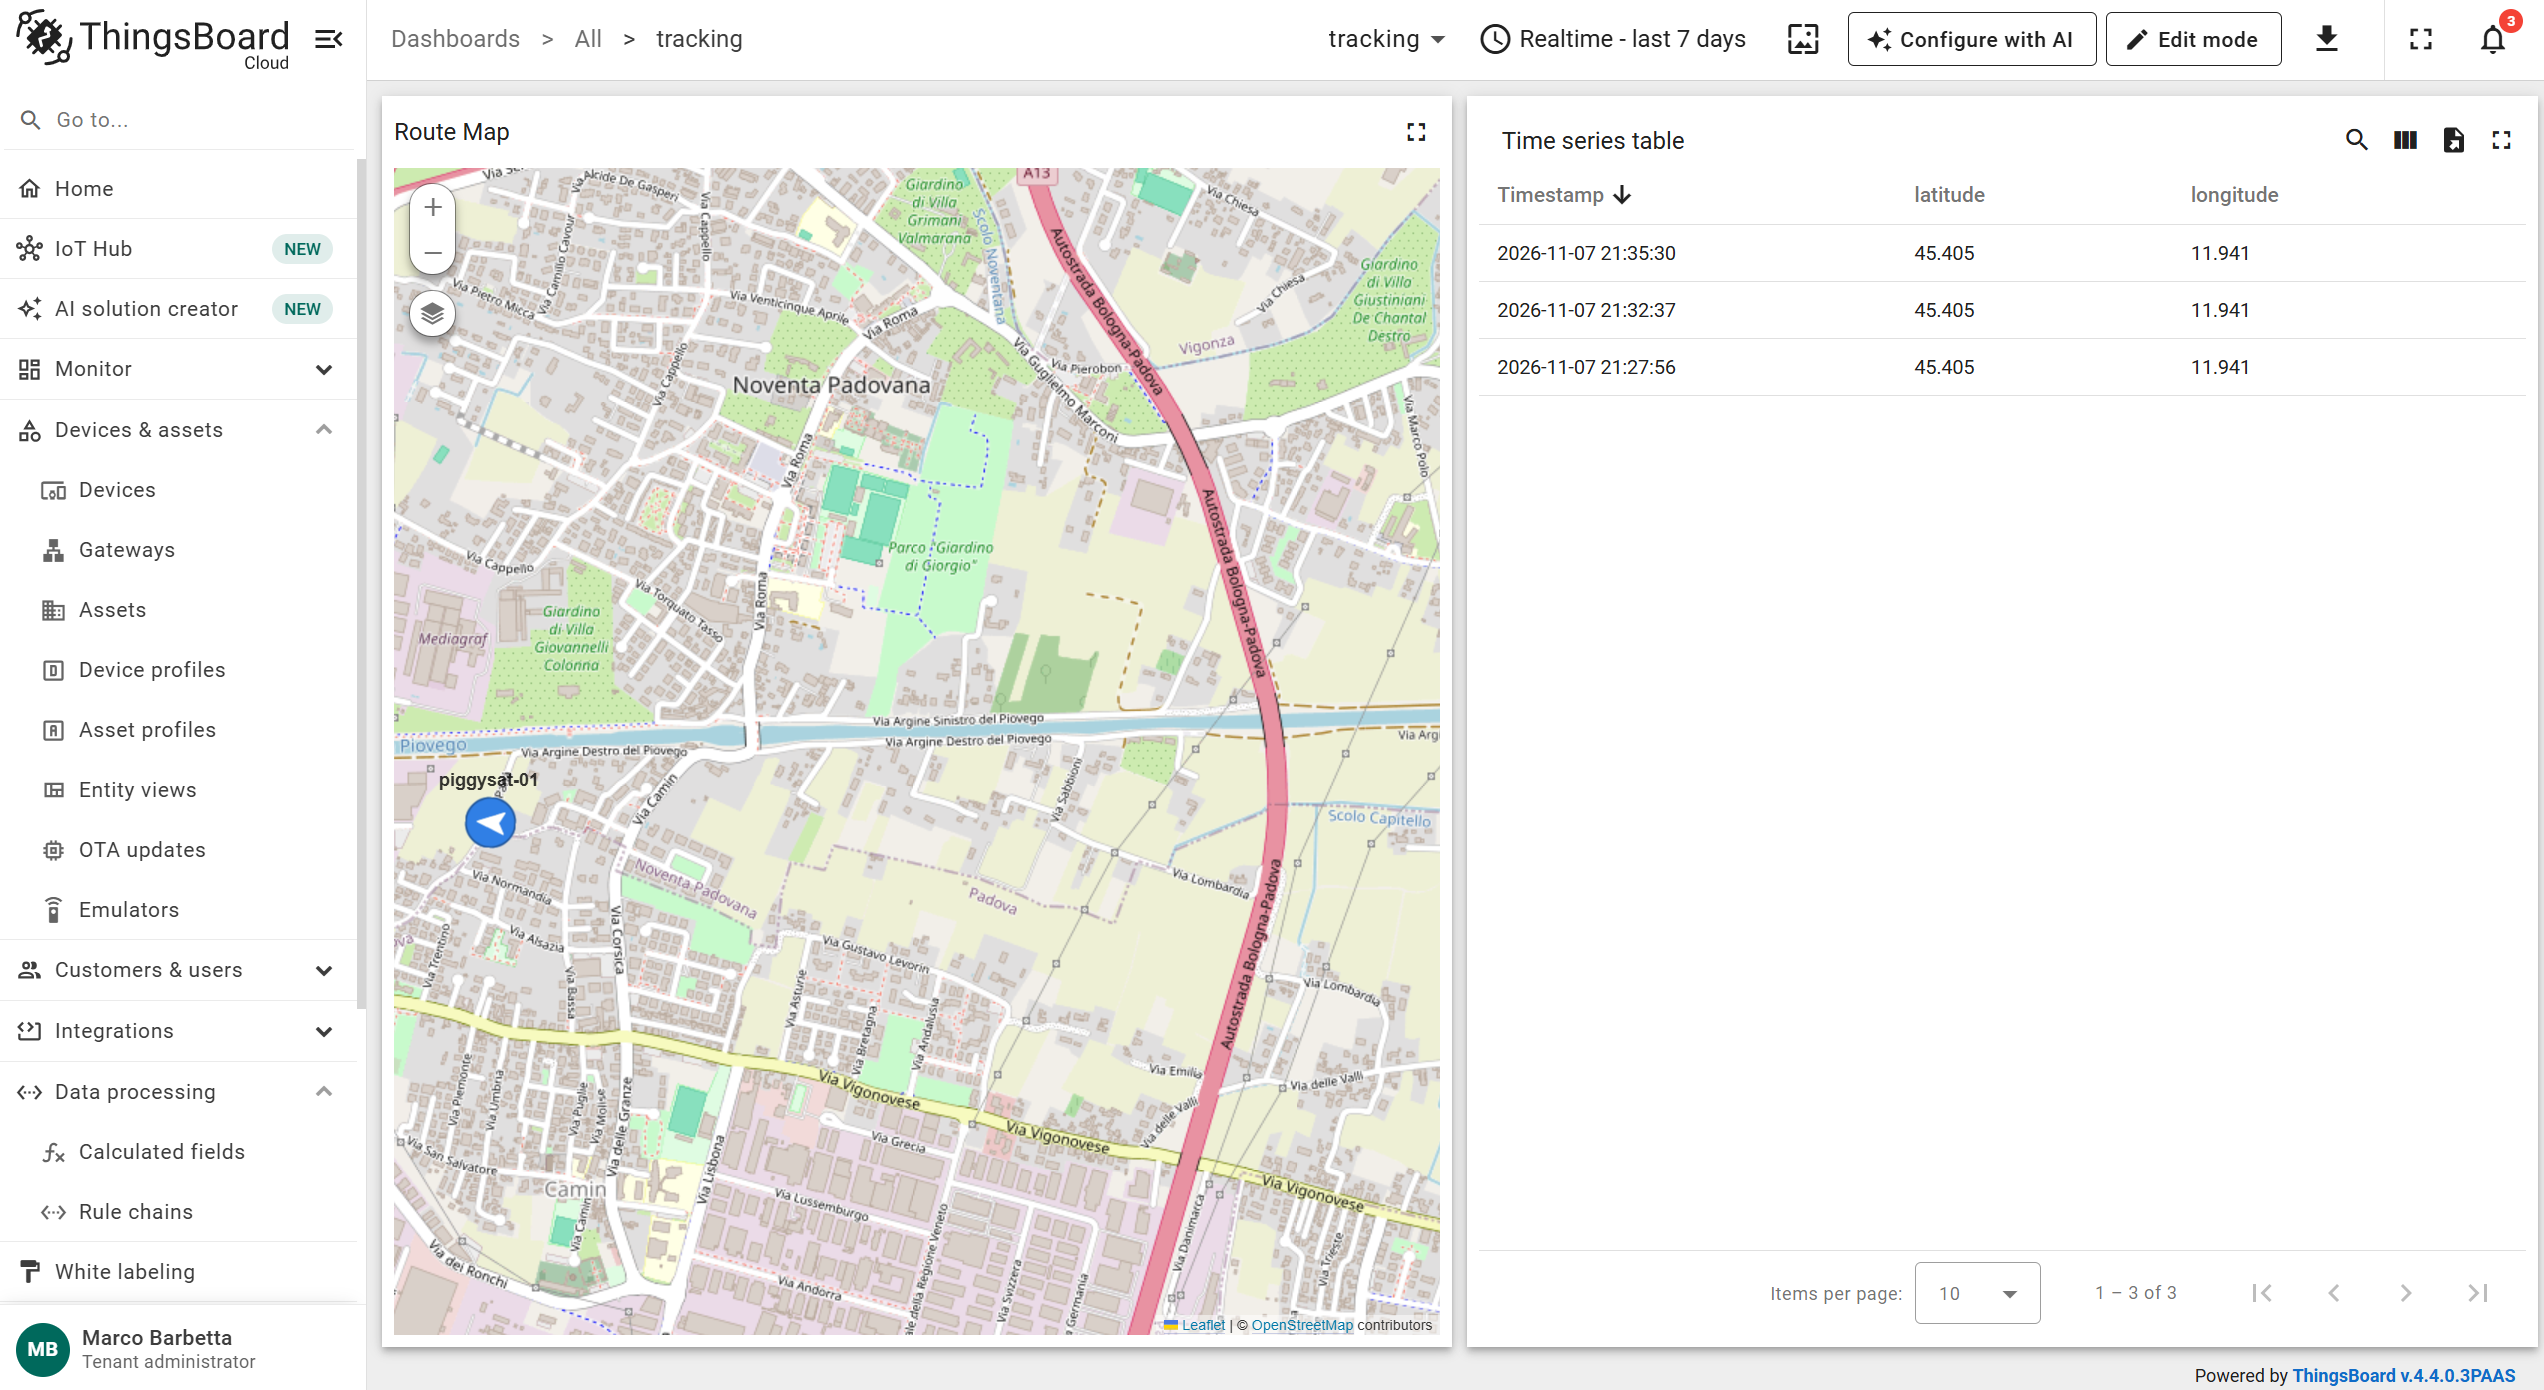
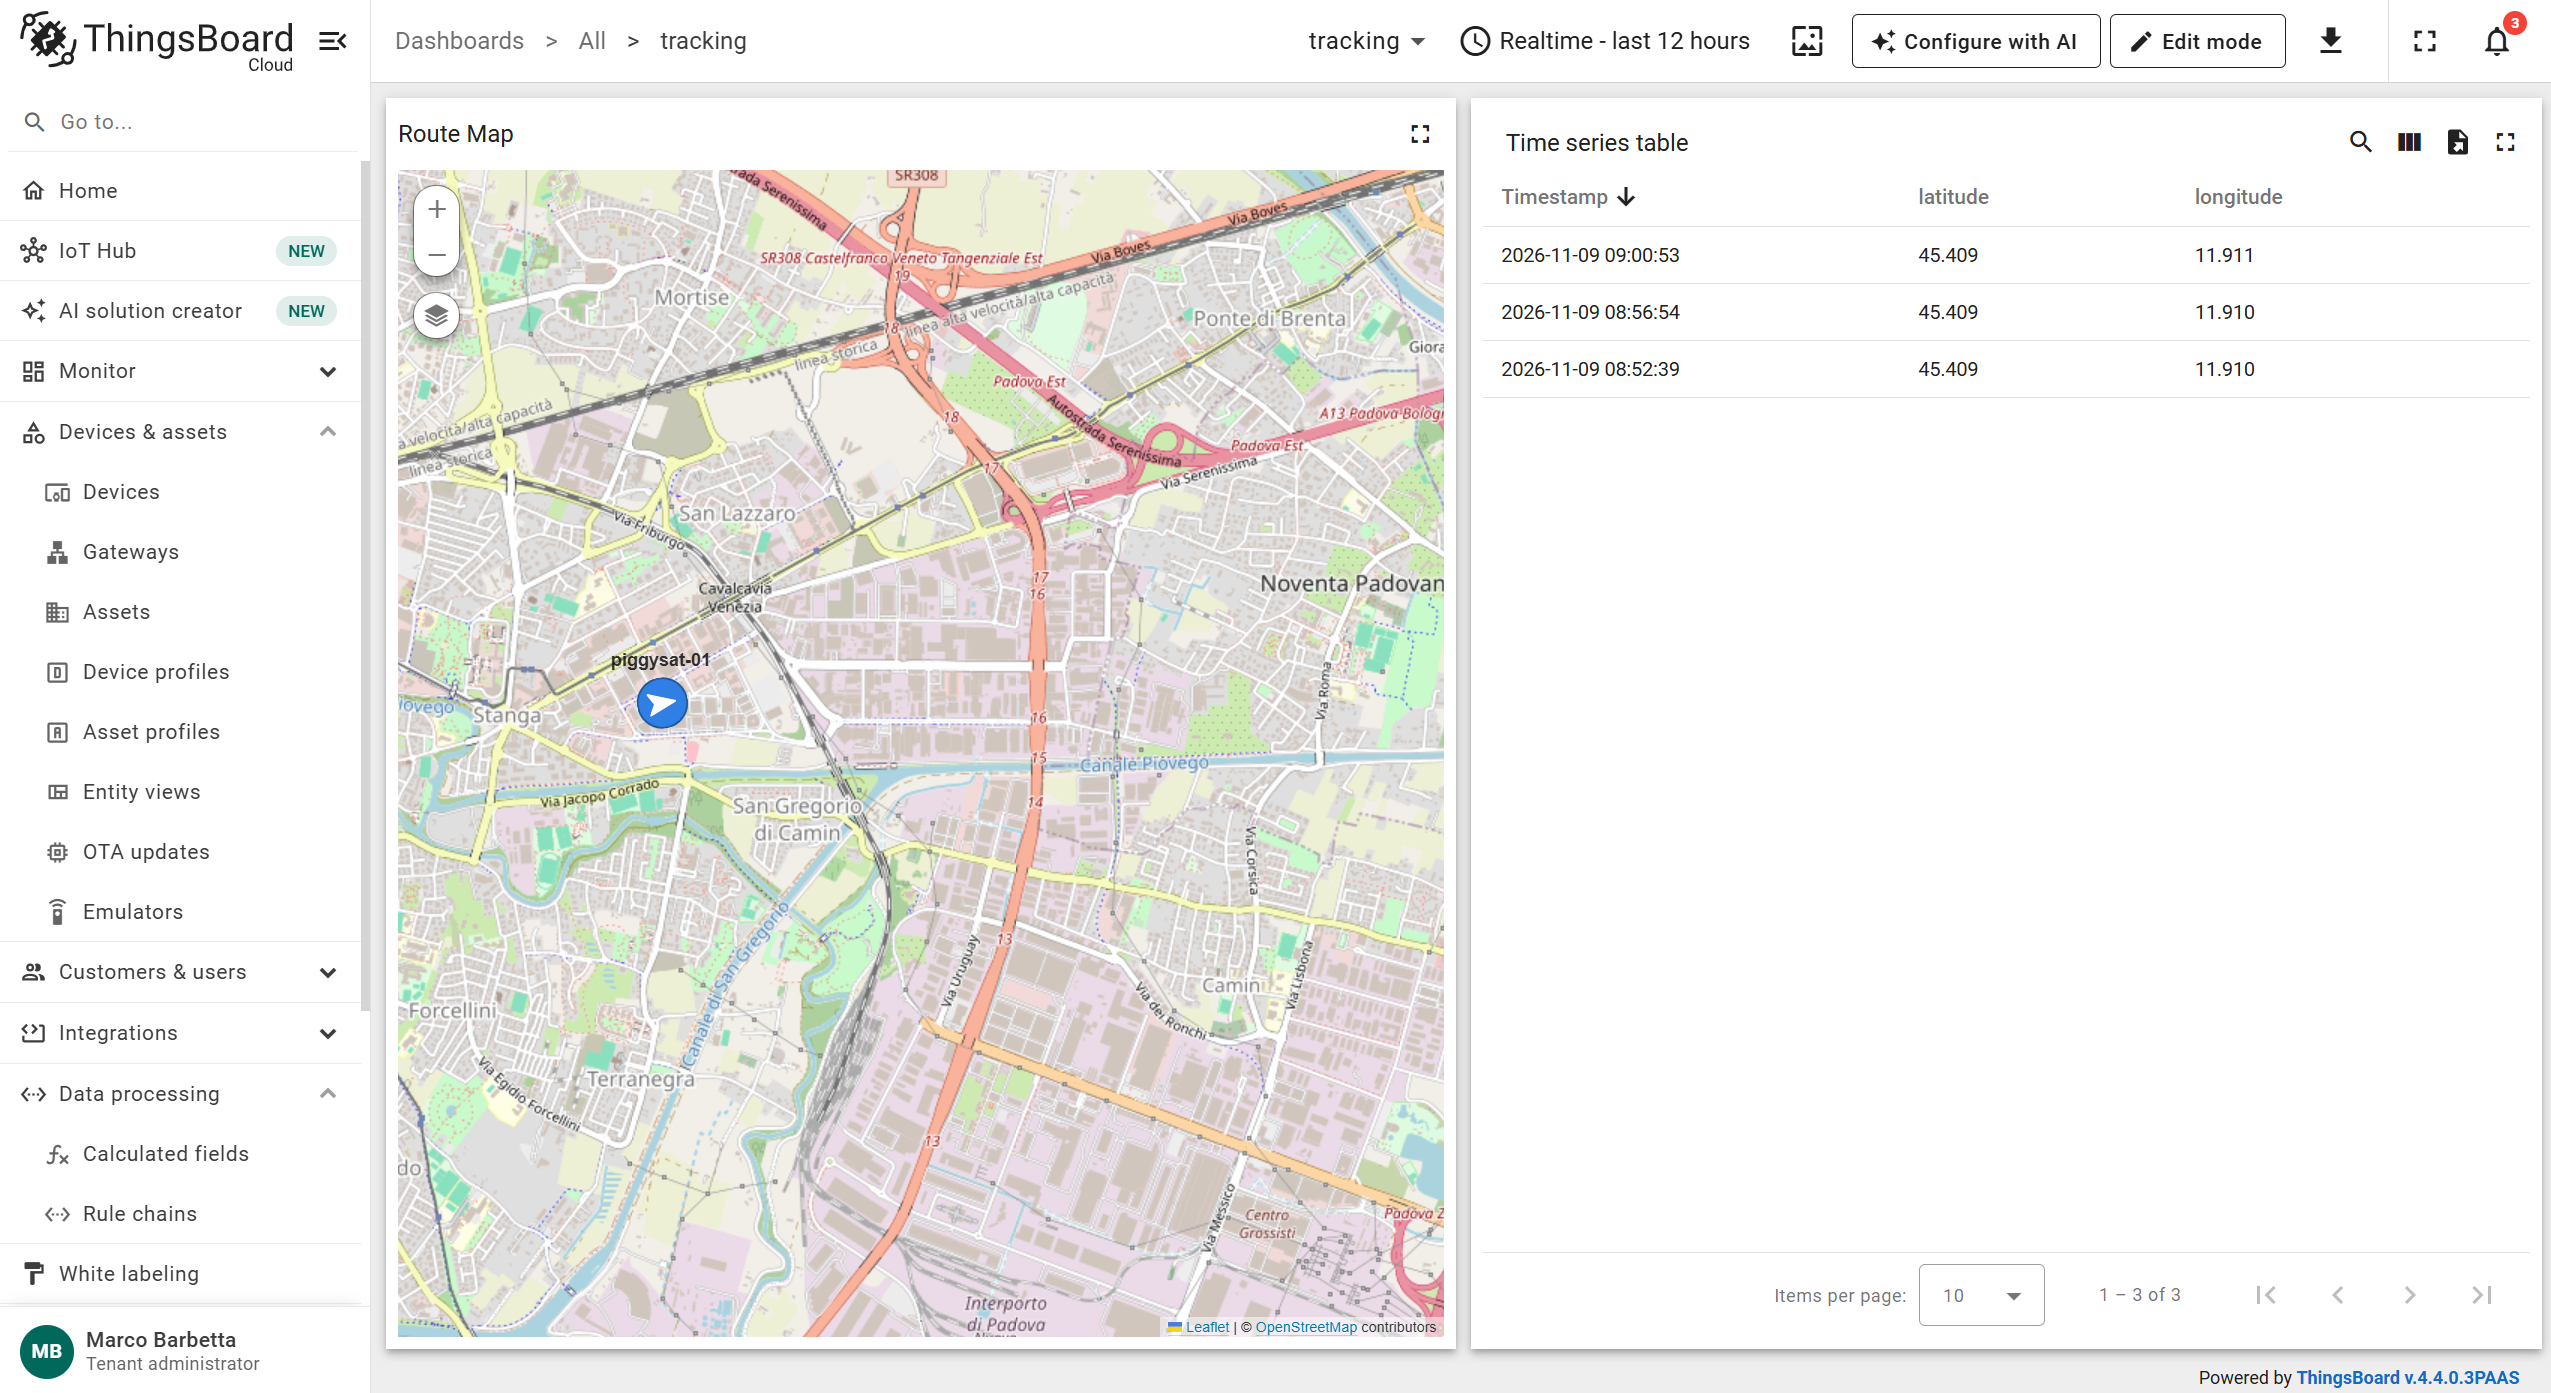
Add the end-to-end test log and results, fix Workbench settings
- Save the RTT log of a full cycle and summarize timings and network info
- Update the GNSS plotter and ThingsBoard screenshots with real captures
- Explain why no prebuilt firmware is published (the token is compiled in)
- Use an absolute BOARD_ROOT in the Workbench configurations, rename the
  piggysat-test configuration and restore piggysat-debug
- Fix the debug build command in CODE_NOTES.md

diff --git a/README.md b/README.md
@@ -42,6 +42,10 @@ The ThingsBoard access token is not committed. Copy [secrets.conf.example](secre
 `secrets.conf` at the repository root (git-ignored) and set `CONFIG_APP_THINGSBOARD_ACCESS_TOKEN`
 there; both apps merge it automatically.
 
+> **No prebuilt firmware.** The access token is compiled into the firmware image, so built
+> binaries are not published: anyone with the image could send data to the ThingsBoard device.
+> Build the firmware yourself with your own ThingsBoard device and token.
+
 The board definition lives in [boards/piggysat/](boards/piggysat/), one level above the apps, so the
 board root is the repository root (`-DBOARD_ROOT=..` from an app folder).
 
@@ -50,8 +54,10 @@ board root is the repository root (`-DBOARD_ROOT=..` from an app folder).
 Open [piggysat.code-workspace](piggysat.code-workspace): it contains both apps as workspace
 folders. Each app has its [Zephyr Workbench](https://marketplace.visualstudio.com/items?itemName=Ac6.zephyr-workbench)
 build configurations in its own `.vscode/settings.json` (west workspace `c:\ncs\v3.4.0`, Zephyr SDK
-1.0.1, board `piggysat/nrf9151/ns`, sysbuild, `-DBOARD_ROOT=..`, `nrfutil` runner with `--erase`).
-The NCS and SDK paths are machine-specific; adjust them if your installation differs.
+1.0.1, board `piggysat/nrf9151/ns`, sysbuild, `-DBOARD_ROOT=c:/ncs/workspace/piggysat-fw`,
+`nrfutil` runner with `--erase`). The NCS, SDK and board root paths are machine-specific; adjust
+them if your installation differs. The board root must be absolute here, because Workbench does not
+run the build from the app folder.
 
 ### Command line
 
@@ -146,11 +152,35 @@ On ThingsBoard, each message appears under the device's **Latest telemetry** as 
 
 ### Result
 
-On 7 November 2026 the ThingsBoard dashboard received three positions from the device
-`piggysat-01`, at 21:27:56, 21:32:37 and 21:35:30, all sent over the Skylo satellite link. The
+On 9 November 2026 the ThingsBoard dashboard received three positions from the device
+`piggysat-01`, at 08:52:39, 08:56:54 and 09:00:53, all sent over the Skylo satellite link. The
 dashboard plots them on a route map and lists them in a time series table.
 
 ![ThingsBoard dashboard with the positions received over satellite](Pictures/thingsboard-dashboard.png)
+
+The RTT log of one complete cycle from the same morning is saved in
+[Logs/piggysat-2026-11-09.log](Logs/piggysat-2026-11-09.log). Its GNSS fix is stamped
+07:59:30 UTC, and its message is the one received at 09:00:53 (Italian time, UTC+1).
+
+| Phase | Time | What the log shows |
+|---|---|---|
+| GNSS fix | 27 s | 5 satellites tracked after 3 s, up to 11 later; fix with 4 satellites, 26.5 m accuracy; strongest satellite 47 dB-Hz |
+| NTN attach | 46 s | network found after 6 s, RRC connected after 10 s, registered with the data connection active after 46 s |
+| Message | 47 s | 97-byte JSON sent about 15 s after the attach; ThingsBoard answered **CoAP 2.01 Created** 31 s later |
+| Detach | 34 s | deregistered, then the modem went to sleep |
+| **Whole cycle** | **2 min 34 s** | from boot to sleep |
+
+Network details reported by the modem once attached:
+
+| Parameter | Value |
+|---|---|
+| Registration | registered, roaming |
+| PLMN | 901 / 98 |
+| Technology | NB-IoT NTN |
+| Band / EARFCN | 255 / 228841 |
+| Cell ID / tracking area / PCI | 2715027 / 15027 / 27 |
+| RSRP / SNR | −124 dBm / 2 dB |
+| Modem firmware | `mfw_nrf9151-ntn_1.0.1` |
 
 ## Troubleshooting
 

diff --git a/piggysat-test/CODE_NOTES.md b/piggysat-test/CODE_NOTES.md
@@ -113,4 +113,4 @@ access port locks again whenever the CPU sleeps in WFI. Flash with `--erase`, si
 ## Debug Build
 
 `fatal-debug.conf` disables reset-on-fatal-error (the system halts and the fault log stays readable). Add it with
-`west build -b piggysat/nrf9151/ns -- -DBOARD_ROOT=. -DEXTRA_CONF_FILE=fatal-debug.conf`.
+`west build -b piggysat/nrf9151/ns --sysbuild -- -DBOARD_ROOT=.. -DEXTRA_CONF_FILE=fatal-debug.conf`.

diff --git a/piggysat-test/README.md b/piggysat-test/README.md
@@ -168,7 +168,7 @@ and decodes the NMEA sentences as they arrive. Closing the window sends `gnss st
 
 ![GNSS plotter showing a 3D fix](../Pictures/gnss-plotter.png)
 
-*Example screenshot, rendered from simulated NMEA data.*
+*A real session with the PiggySat antenna: 13 GPS satellites tracked, 5 used, 3D fix.*
 
 The window is refreshed every second and has five areas:
 
